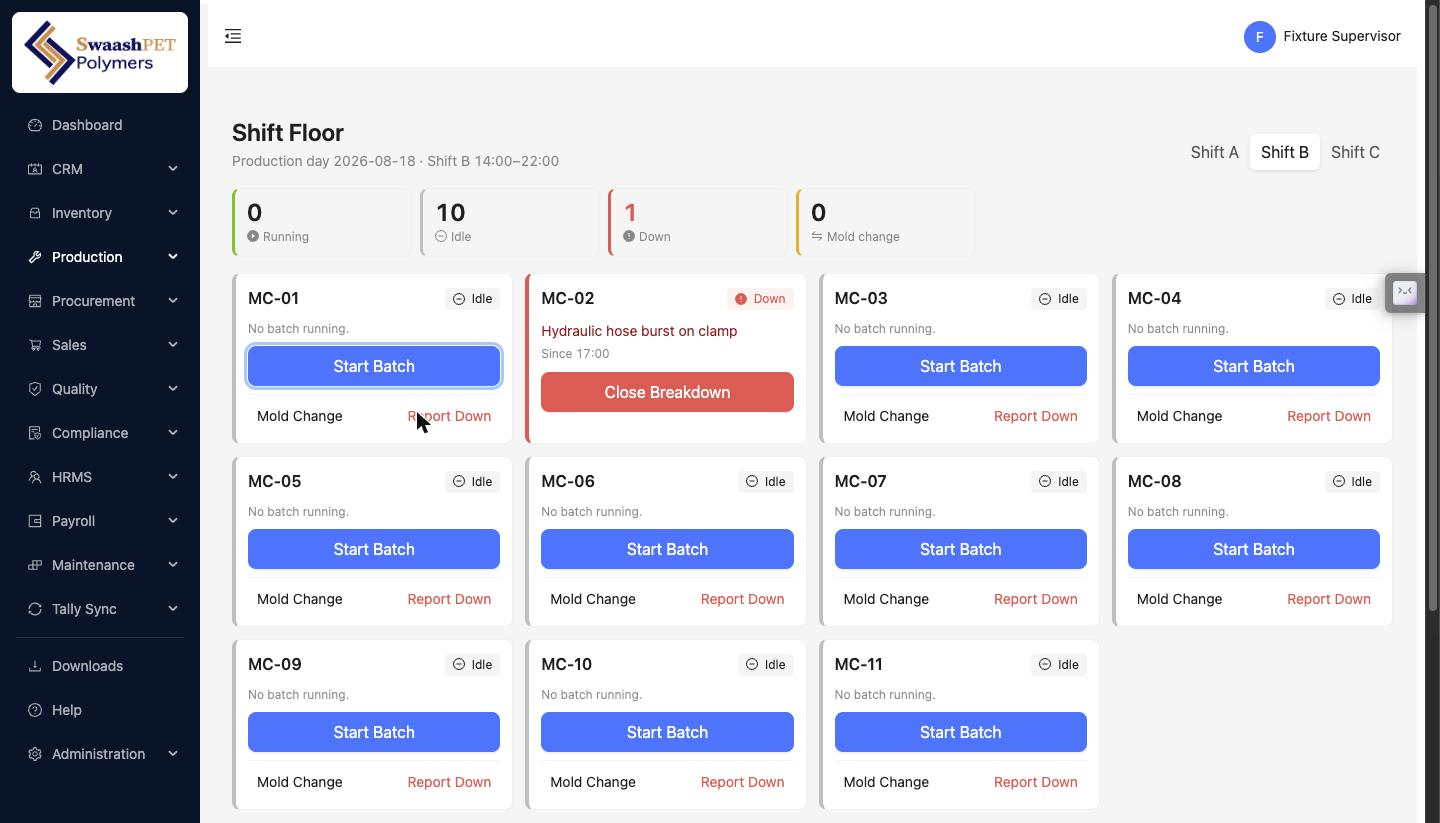
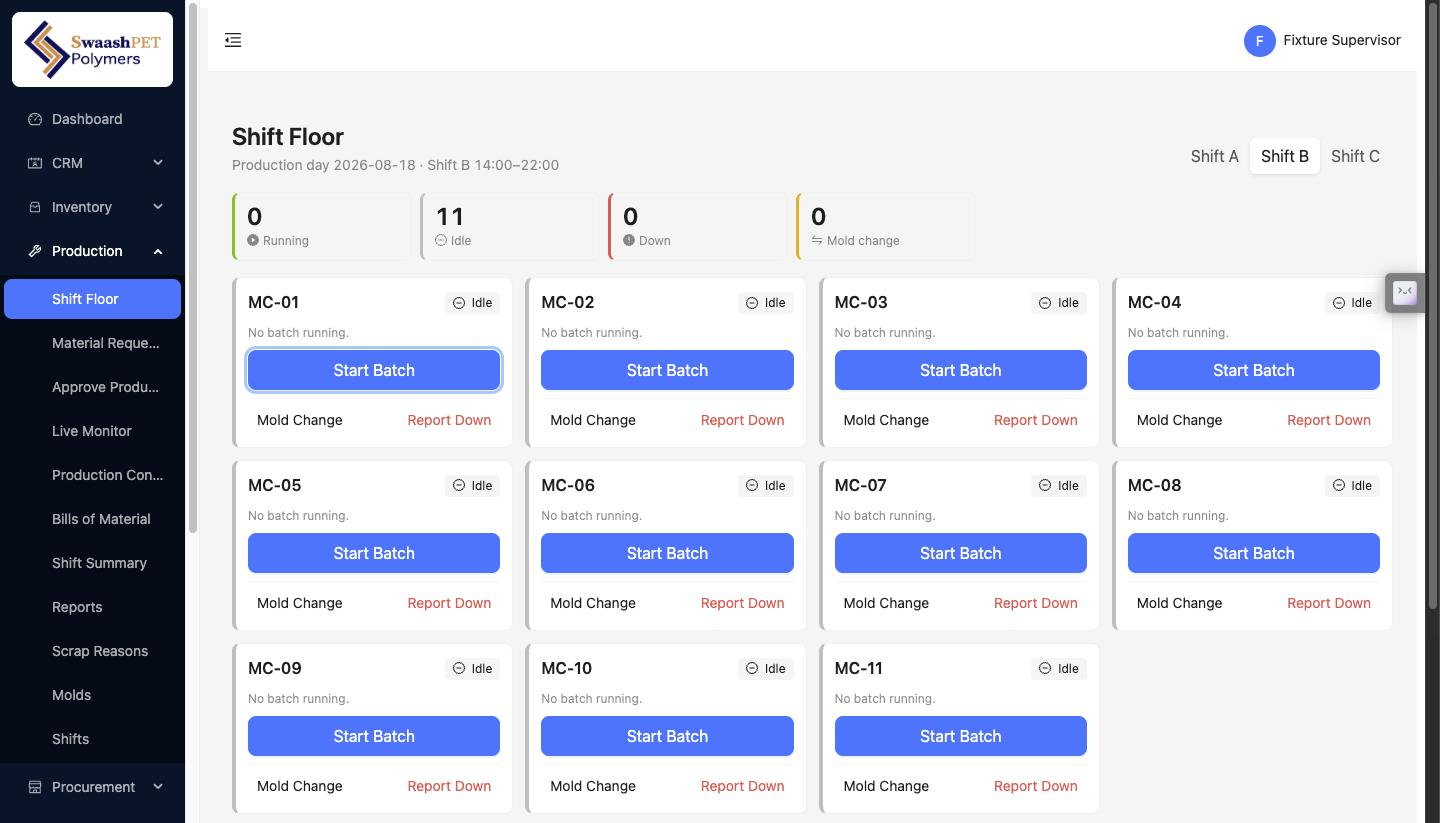
Re-shoot the two screenshots that discriminate, and name the one global edit
The keyboard-focus and tablet shots were captured mid-session — before the
MC-02 breakdown was closed and before the padding rebuild — so they showed
a different layout from the other four. Both re-taken against the final
build. Tablet is the only width that proves the padding change at all:
1440 fitted one line either way.

Two disclosures a reviewer should not have to find:

index.css is app-global, and its reduced-motion block removes the hover
transition from EVERY hoverable card in the application, not only this
page. That is deliberate — a device asking for less motion is asking
globally — but it is the one edit in this PR reaching outside Shift
Production, so §7.2 names it.

The Tooltip now wrapping the ordinary "Open" control renders inside a
Table cell and inside the earlier-correctable cards, neither of which this
fixture can produce. Added to the not-verified list rather than assumed
fine.

diff --git a/docs/engineering/UX-SHIFT-FLOOR-2026-08-18.md b/docs/engineering/UX-SHIFT-FLOOR-2026-08-18.md
@@ -207,7 +207,7 @@ Same method, same isolation: `php artisan serve` on `:8012` from this worktree, 
 | **Before**, from a build under my own control (main's page, built and served on the same port) | No production date, no counts, a `size="large"` radio bar, and a red-outlined `Report Down` as the FIRST button on all eleven cards — **no Start Batch button at all**. Every claim in §1–§2 confirmed against a render, not from reading. | `before-desktop.jpg` |
 | After — desktop 1440, all Idle | Date + shift stated; tiles 0 / 11 / 0 / 0; one labelled `Start Batch` per card; `Mold Change` and `Report Down` secondary, on one line. | `after-desktop-all-idle.jpg` |
 | After — desktop, mixed Idle + Down | Reported a breakdown on MC-02 → red rail, `⚠ Down` tag, problem text, `Since 17:00`, `Close Breakdown` as a red primary, `Report Down` correctly absent. Tiles moved 0/11/0/0 → 0/10/**1**/0, tracking the grid exactly. Breakdown closed again afterwards; the fixture ends where it started. | `after-desktop-mixed-state.jpg` |
-| Tablet 834 (wide branch — the breakpoint is 767) | 3 cards per row, tiles in one row, the table kept. The secondary row wrapped onto two lines at this width, which is why the buttons' side padding was trimmed to 8; re-verified on one line after. | `after-tablet-834.jpg` |
+| Tablet 834 (wide branch — the breakpoint is 767) | 3 cards per row, tiles in one row, the table kept. The secondary row wrapped onto two lines at this width, which is why the buttons' side padding was trimmed to 8. **Re-shot against the final build** — tablet is the only width that discriminates the padding change, since 1440 fitted one line either way. | `after-tablet-834.jpg` |
 | Narrow branch | `Segmented` in `block` mode, tiles wrapped, one card per row, secondary row on one line. **At 500px, not 390** — this OS refuses to size a Chrome window below 500. 500 is well inside the `max-width: 767px` branch, so the branch is exercised; the exact 390 layout is not separately proven. | `after-mobile-narrow.jpg` |
 | Keyboard — reach | Tabbing from the shift `Segmented` walks into the grid and reaches `Start Batch`, `Mold Change` and `Report Down` in DOM order. | `after-desktop-keyboard-focus.jpg` |
 | Keyboard — visible focus | `:focus-visible` matches on the focused control and the ring is visible in the screenshot. | same |
@@ -237,6 +237,23 @@ what a reviewer should NOT read as covered:
   pass touches a permission check — every gate (`traceabilityEnabled`,
   `canAmendCompletion`, the `Cancel Batch` predicate) is preserved verbatim — but the
   other roles were not walked through.
+- **The `Tooltip` now wrapping the ordinary `Open` control.** It renders inside a
+  `Table` cell and inside the earlier-correctable cards, neither of which this fixture
+  can produce. Low risk, and stated rather than assumed.
+
+### 7.2 The one change that reaches outside Shift Production
+
+Everything else in this PR is confined to `ShiftProductionEntryPage.tsx` and modules
+only it imports. **`frontend/src/index.css` is app-global**, and gains two rules:
+
+- `.floor-attention-chip:focus-visible` — scoped by class to this page's one bare
+  anchor, so it can affect nothing else.
+- `@media (prefers-reduced-motion: reduce)` — sets `scroll-behavior: auto` on `html`
+  and removes the transition from `.ant-card-hoverable`. **This applies to every
+  hoverable card in the application, not only the floor.** That is deliberate — a
+  device asking for less motion is asking globally, and honouring it on one page only
+  would be the odd behaviour — but it is the single edit here a reviewer should weigh
+  outside the scope of Shift Production, so it is named rather than left to be found.
 
 **Not verified visually, and why:** the **Running** and **Mold Change** cards. The fixture
 database holds no in-progress batch and no molds. Producing a Running card would have
